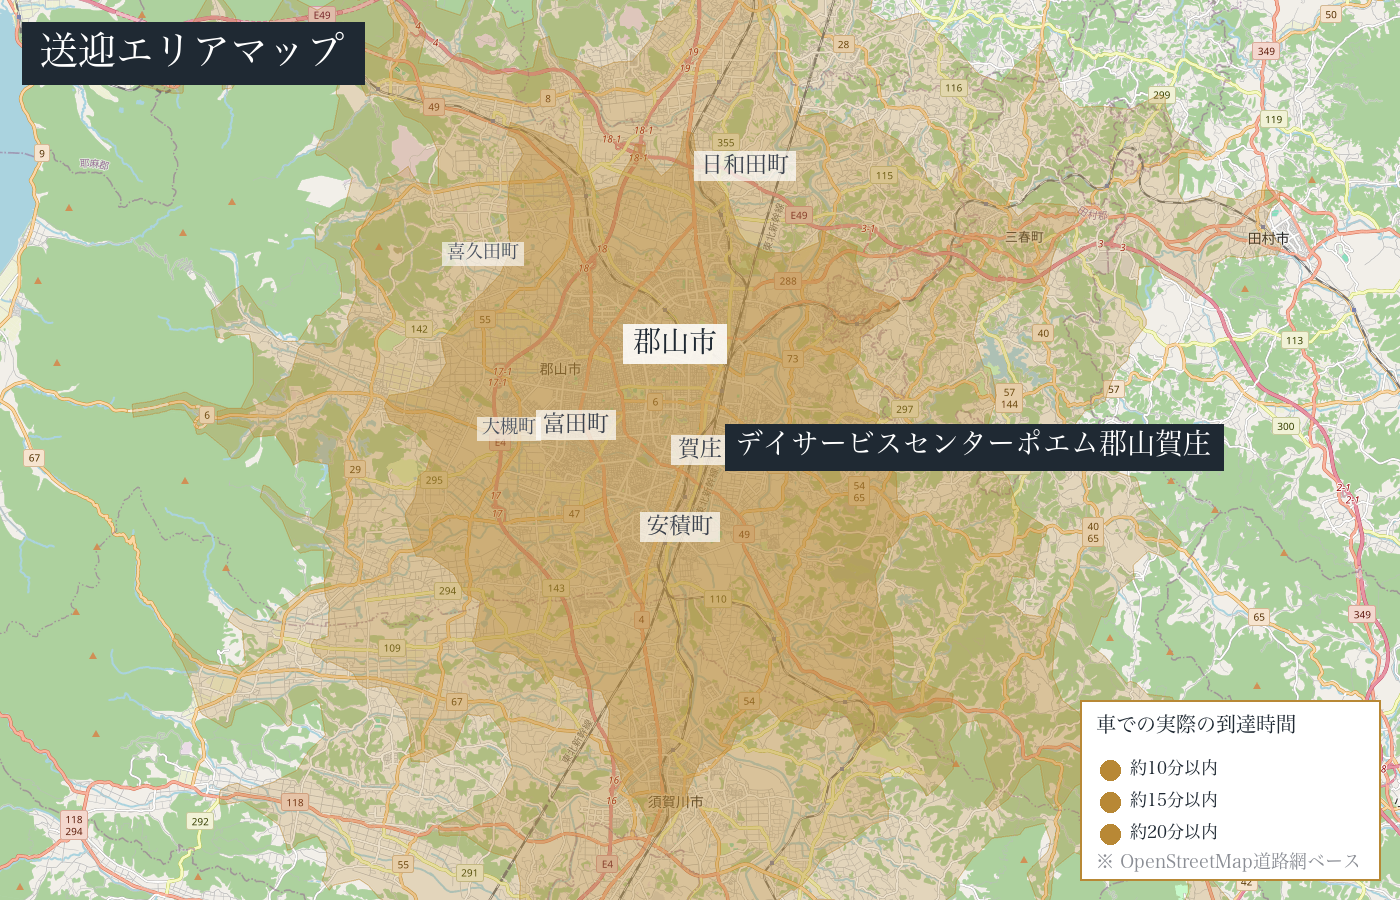
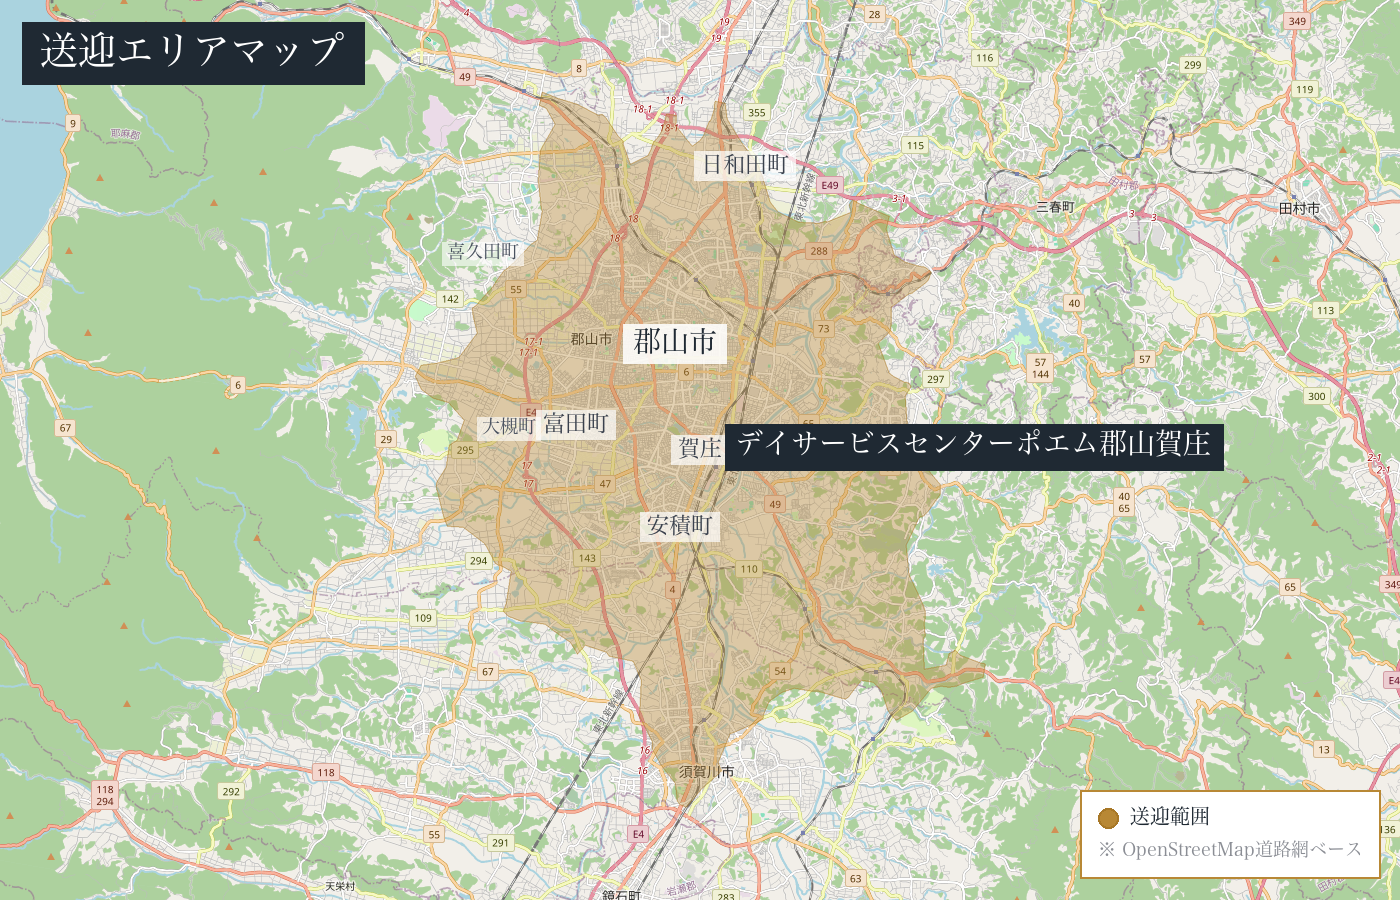
送迎エリアを「片道10分の単一範囲＝送迎範囲」表示に変更
【マップ】
- isochrone を 10/15/20分の3層 → 10分のみ単色塗りに変更
- 凡例も「送迎範囲」のみのシンプル表示に
- 4事業所マップを再生成（asaka, kasho, kaisei, tateyama）

【HTML側】
- poem-asaka.html: 「送迎エリアマップ」→「送迎範囲マップ」
- sougei-areas.html: 凡例を時間別の3層スウォッチ→単色「送迎範囲」のみ
- 表現も時間ベースから範囲ベースに統一

ご指摘どおり、20分まで広げるとカバー範囲が実態より広く見えてしまうため
実用的な10分圏を「送迎範囲」として明示する方針に。

diff --git a/sougei-areas.html b/sougei-areas.html
@@ -170,38 +170,34 @@
 
     .legend-block {
       margin-top: 28px;
-      padding: 18px 22px;
+      padding: 14px 22px;
       background: #fff;
       border: 1px solid var(--line);
       display: flex;
       align-items: center;
-      gap: 24px;
+      gap: 16px;
       flex-wrap: wrap;
       justify-content: center;
-    }
-    .legend-block .label {
-      font-family: 'Noto Serif JP', serif;
-      font-size: 13px;
-      font-weight: 600;
-      color: var(--ink);
     }
     .legend-block .swatch {
       display: flex;
       align-items: center;
-      gap: 6px;
-      font-size: 12.5px;
+      gap: 8px;
+      font-size: 13px;
       color: var(--ink);
     }
     .legend-block .swatch::before {
       content: "";
       display: inline-block;
-      width: 14px; height: 14px;
+      width: 16px; height: 16px;
       border-radius: 50%;
-      border: 1px solid var(--gold);
+      border: 1.5px solid var(--gold);
+      background: rgba(168,120,39,0.38);
     }
-    .legend-block .s10::before { background: rgba(168,120,39,0.63); }
-    .legend-block .s15::before { background: rgba(168,120,39,0.44); }
-    .legend-block .s20::before { background: rgba(168,120,39,0.25); }
+    .legend-block .note {
+      font-size: 11.5px;
+      color: var(--ink-mute);
+    }
 
     .doc-footer {
       text-align: center;
@@ -276,11 +272,8 @@
     </div>
 
     <div class="legend-block">
-      <span class="label">車での実際の到達時間</span>
-      <span class="swatch s10">約10分以内</span>
-      <span class="swatch s15">約15分以内</span>
-      <span class="swatch s20">約20分以内</span>
-      <span style="font-size:11px;color:var(--ink-mute)">※ OpenStreetMap 道路網 / OpenRouteService isochrone</span>
+      <span class="swatch">送迎範囲</span>
+      <span class="note">※ 範囲外もお気軽にご相談ください ／ 地図データ © OpenStreetMap / OpenRouteService</span>
     </div>
 
     <div class="areas-grid" style="margin-top:22px">

diff --git a/poem-asaka.html b/poem-asaka.html
@@ -1127,9 +1127,9 @@
       </div>
 
       <div class="sougei-area-map">
-        <h4>🚐 送迎エリアマップ</h4>
-        <img src="photos/sougei-area-asaka.png" alt="送迎エリアマップ：実際の道路で車で約20分以内のエリアを色分け表示">
-        <p>※ 実際の道路ネットワークに基づく到達時間です。エリア外でもお気軽にご相談ください。地図データ © OpenStreetMap contributors / Isochrones © OpenRouteService</p>
+        <h4>🚐 送迎範囲マップ</h4>
+        <img src="photos/sougei-area-asaka.png" alt="送迎範囲マップ：施設を中心とした送迎可能エリア">
+        <p>※ 上記範囲外でもお気軽にご相談ください。地図データ © OpenStreetMap contributors / OpenRouteService</p>
       </div>
 
       <div class="access-map-print">

diff --git a/tools/generate-isochrone-map.py b/tools/generate-isochrone-map.py
@@ -87,11 +87,11 @@ FACILITIES = [
 
 
 def fetch_isochrones(lat, lng):
-    """OpenRouteService から isochrone (10/15/20分) を取得"""
+    """OpenRouteService から isochrone (片道10分) を取得"""
     url = "https://api.openrouteservice.org/v2/isochrones/driving-car"
     body = json.dumps({
         "locations": [[lng, lat]],
-        "range": [600, 900, 1200],
+        "range": [600],
         "range_type": "time",
     }).encode('utf-8')
     req = urllib.request.Request(url, data=body, headers={
@@ -142,14 +142,10 @@ def render_facility(fac, output_dir, zoom=12, w=1400, h=900):
     m = StaticMap(w, h, url_template='https://a.tile.openstreetmap.org/{z}/{x}/{y}.png',
                   padding_x=20, padding_y=20)
 
-    # isochrone polygons (外→内、薄→濃)
-    # alpha値を高めにして視認性UP（aa=170/ff=85, b3=180, c8=200）
-    fills = {1200: '#b8883540', 900: '#b8883570', 600: '#b88835a0'}
+    # 送迎範囲ポリゴン（単色塗り）
     for f in features:
         coords = f['geometry']['coordinates'][0]
-        v = f['properties']['value']
-        color = fills.get(v, '#b8883540')
-        m.add_polygon(Polygon(coords, color, '#b88835', simplify=False))
+        m.add_polygon(Polygon(coords, '#b8883560', '#a87827', simplify=False))
 
     # 中心マーカー
     m.add_marker(CircleMarker((fac['lng'], fac['lat']), '#1f2933', 30))
@@ -202,17 +198,13 @@ def render_facility(fac, output_dir, zoom=12, w=1400, h=900):
     draw.rectangle([22, 22, tw + 60, 84], fill='#1f2933')
     draw.text((40, 30), title, fill='#fff', font=font_title)
 
-    # 凡例
-    lx, ly = w - 320, h - 200
-    lw, lh = 300, 180
+    # 凡例（送迎範囲のみ）
+    lx, ly = w - 320, h - 110
+    lw, lh = 300, 88
     draw.rectangle([lx, ly, lx + lw, ly + lh], fill='#fff', outline='#b88835', width=2)
-    draw.text((lx + 16, ly + 14), '車での実際の到達時間', fill='#1f2933', font=font_legend)
-    items = [('約10分以内', '#b88835a0'), ('約15分以内', '#b8883570'), ('約20分以内', '#b8883540')]
-    for i, (lbl, c) in enumerate(items):
-        cy_ = ly + 60 + i * 32
-        draw.ellipse([lx + 20, cy_, lx + 40, cy_ + 20], fill=c, outline='#b88835')
-        draw.text((lx + 50, cy_ - 1), lbl, fill='#1f2933', font=font_note)
-    draw.text((lx + 16, ly + lh - 28), '※ OpenStreetMap道路網ベース', fill='#8b8e95', font=font_small)
+    draw.ellipse([lx + 18, ly + 18, lx + 38, ly + 38], fill='#b8883560', outline='#a87827', width=2)
+    draw.text((lx + 50, ly + 16), '送迎範囲', fill='#1f2933', font=font_legend)
+    draw.text((lx + 18, ly + 50), '※ OpenStreetMap道路網ベース', fill='#8b8e95', font=font_small)
 
     out = os.path.join(output_dir, f"sougei-area-{fac['slug']}.png")
     img.save(out, 'PNG', optimize=True)
